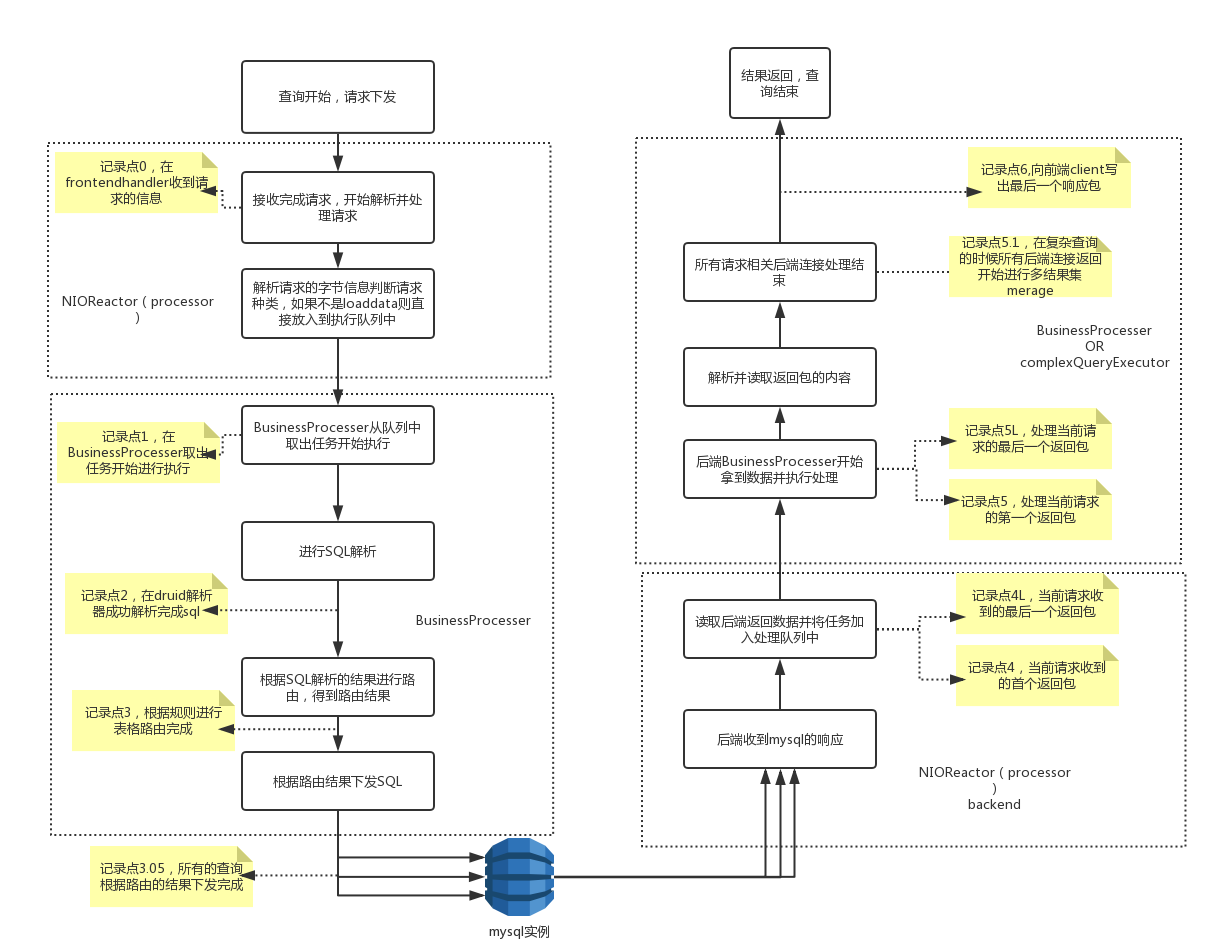
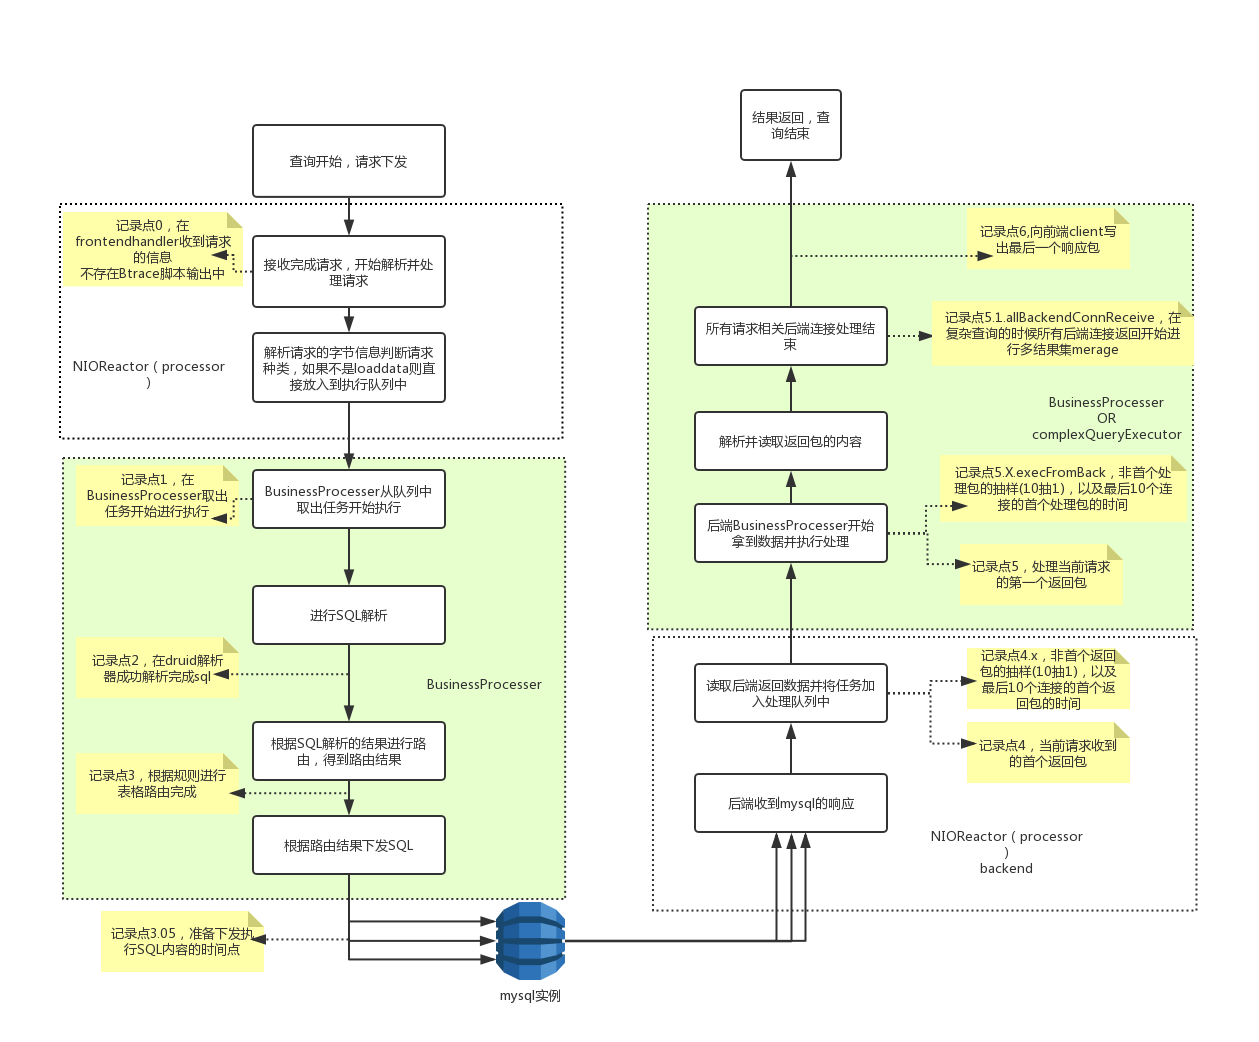
add doc for new ha

diff --git a/2.Function/2.18_performance_observation.md b/2.Function/2.18_performance_observation.md
@@ -15,7 +15,21 @@ Btrace 相关资料[https://github.com/btraceio/btrace](https://github.com/btrac
 以上输出值有效信息为Block,Invocations,WallTime.* , 而SelfTime.*由于btrace的原因 不准确，可以忽略。  
 其中通过记录一个查询在每个记录点的时间点来观察是否存在某个中间步骤耗时过长，并进行针对性的优化和调整
 
-####  2.18.1.2 调整策略
+#### 2.18.1.2 节点描述
++ **0** : 逻辑时间0，来自客户端的请求首次被dble接收到的时间点
++ **1.startProcess** : 开始处理前端请求的时间节点
++ **2.endParse** : SQL被解析完成的时间节点
++ **3.endRoute** : SQL被路由完成的时间节点
++ **3.05 readyToDeliver** : SQL准备开始下发的时间点
++ **4.resFromBack** : 前端请求首次由任意个后端连接返回信息
++ **4.X.resFromBack** : 前端请求后端连接的首个返回包的采样时间点,例：4.3.resFromBack指的是第三个后端连接首次返回包给dble的时间点，具体的后端连接的编号为首次返回的顺序，即首个有网络包返回的后端连接编号为1
++ **5.startExecuteBackend** : 前端请求后端连接首个包进入处理阶段的时间点
++ **5.X.startExecuteBackend** : 前端请求后端连接的首个包被处理的采样时间点，例：5.3.startExecuteBackend指的是第三个后端连接首次进入到后端数据处理的阶段，具体的编号为首次进入处理阶段的顺序
++ **5.1.allBackendConnReceive** ：在复杂查询的情况下开始merage的时间点
++ **6.response** : 给前端开始最终返回包的时间点
+
+**注意:Btrace关于性能跟踪的脚本设计专为单一SQL模式下使用，在多个SQL混合查询的情况下，由于每个SQL涉及的采样点可能不同，会出现数据上的异常，甚至是节点顺序和时间点倒挂的现象**  
+####  2.18.1.3 调整策略
 + 1-0的耗时增长：需增大server.xml中processorExecutor的值
 （其中0比表示dble开始读到某条语句时的时间，即初始值：0，所以1-0的时间就是request->1.startProcess的输出值，不需要进行计算）
 + 4-3的耗时增长：需增大server.xml中backendProcessors的值
